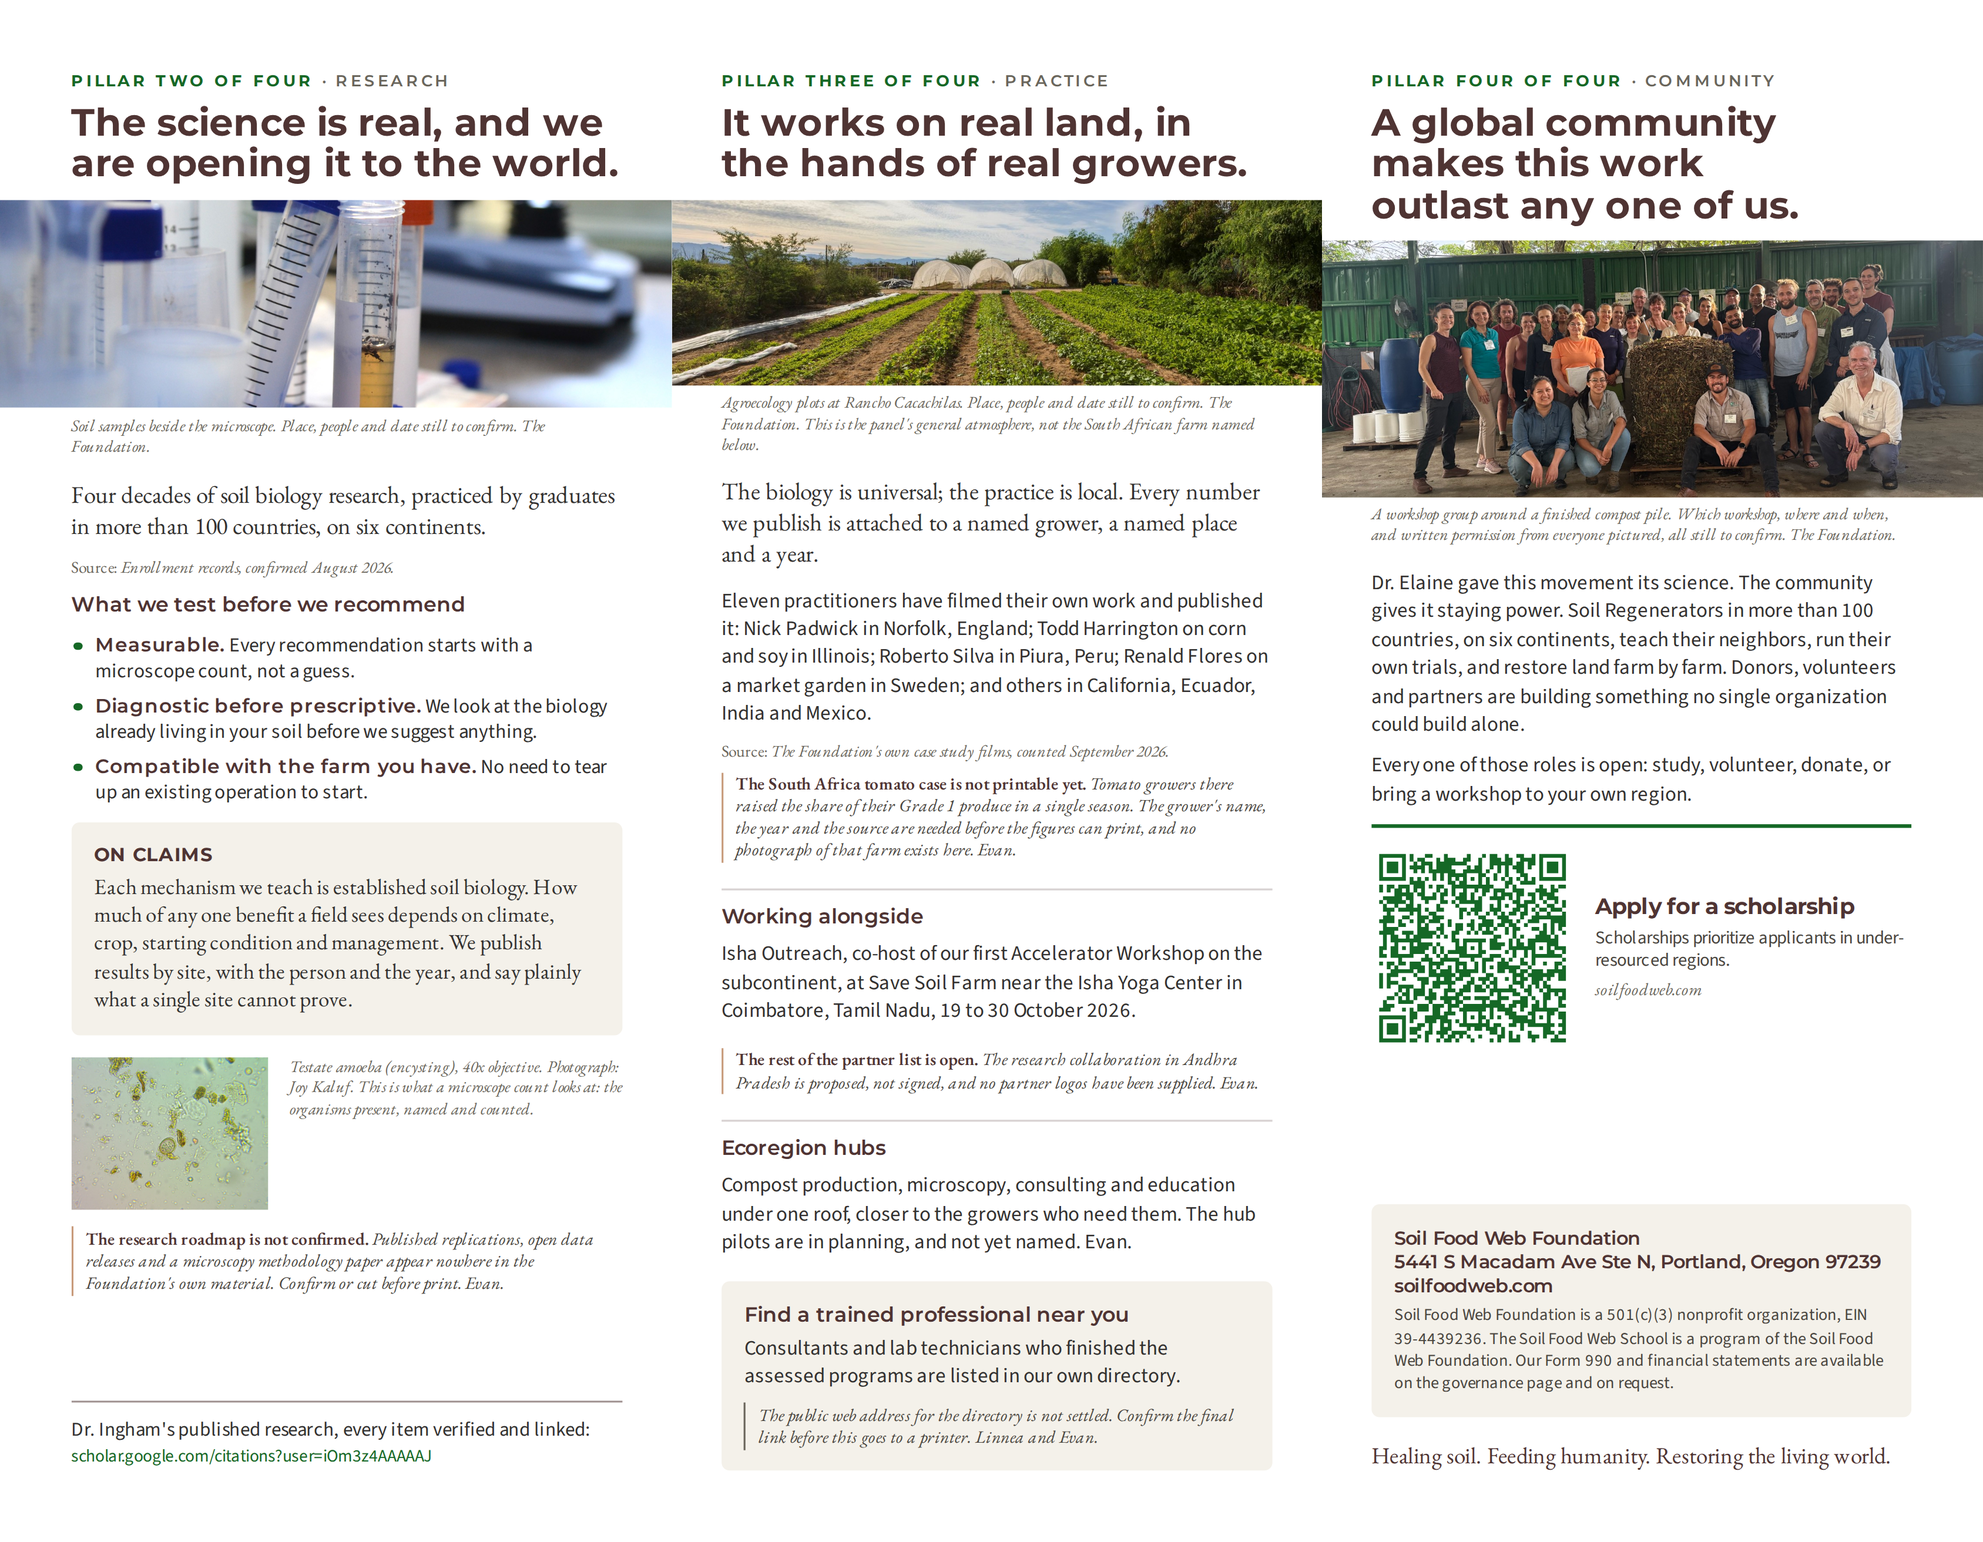
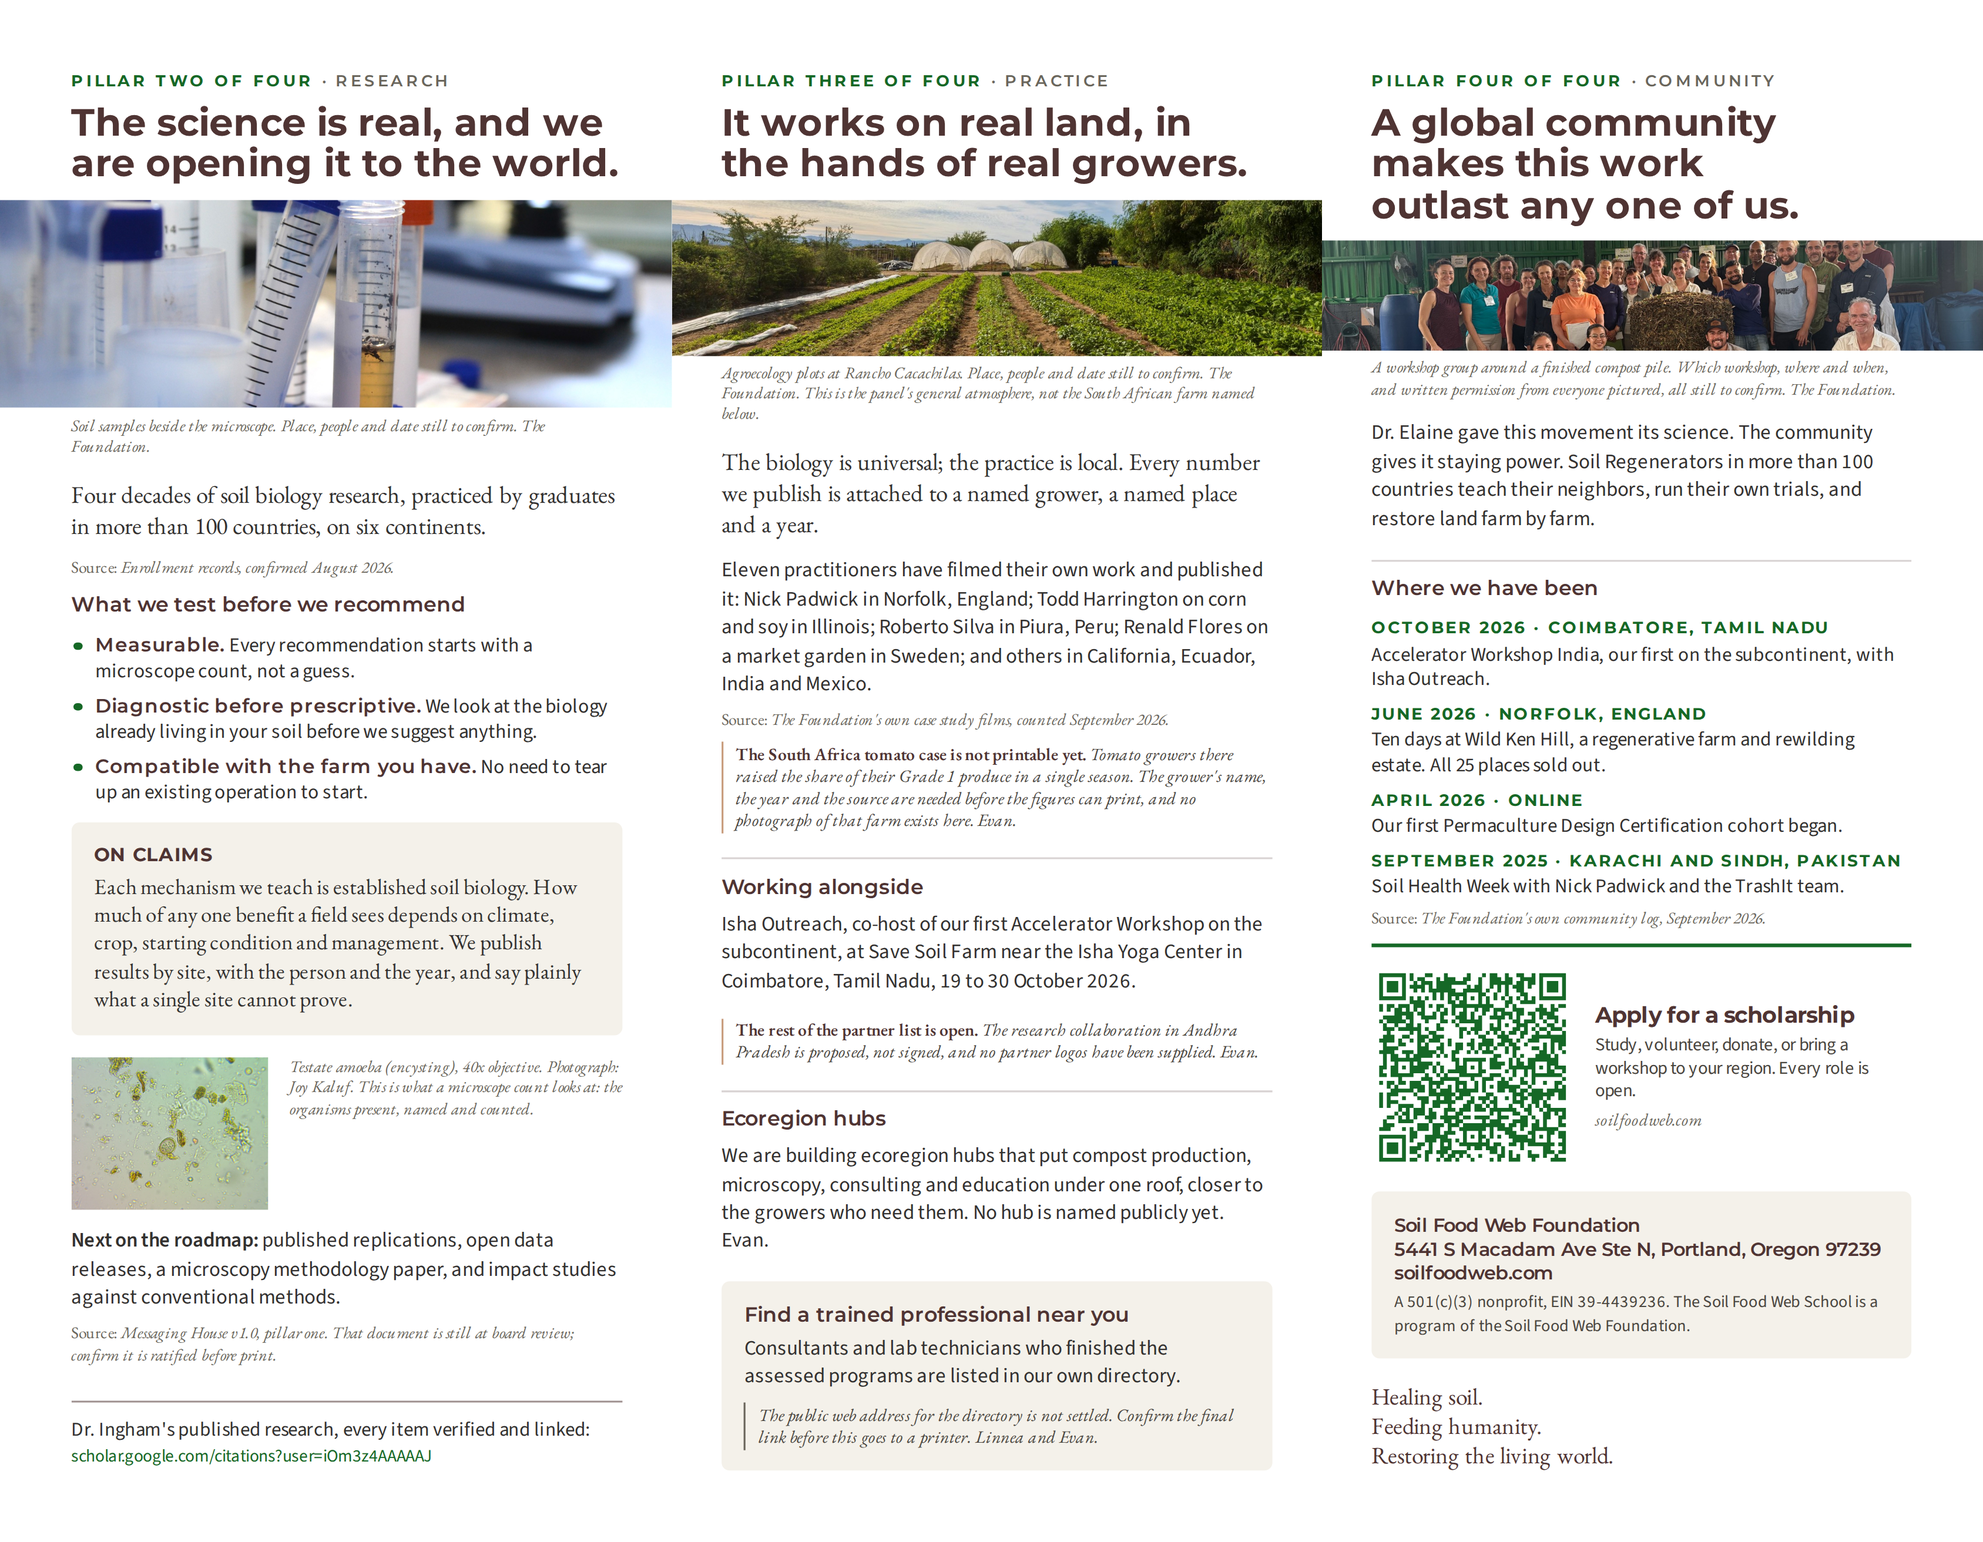
Resolve the publication count and the research roadmap; rework panel 6
The publication count is answered from the repository's own data rather
than from any of the three prose figures. content/research.json holds 137
verified entries in six sections. The four sections that are hers total
89, and every one of those 89 carries "Ingham" in its author string while
none of the other 48 does. By entry type they are 53 journal articles,
10 peer-reviewed technical reports, 9 book chapters, 7 magazine articles,
4 conference proceedings, 3 technical reports, 2 books and the USDA Soil
Biology Primer. about-elaine.html and about.html already print exactly
that and are correct.

The copy deck's "82 verified links" is a link count: 87 entries carry a
URL, five of those links are recorded as never re-verified, 87 minus 5 is
82. Its "77 journal papers" does not exist in the data, and its "43 other
publications" are by other authors. Panel 2 now prints 89 with a source
line in place of the placeholder.

The research roadmap is confirmed by the Foundation's own Messaging House
v1.0, pillar one, which names published replications, open data releases,
a microscopy methodology paper and impact studies. Panel 4 prints it with
a source line and a note that the document is still at board review. The
same document makes the ecoregion hubs sentence approved present-tense
language, so panel 5 is no longer hedged.

Panel 6 on Linnea's notes: the tagline breaks to three lines as it does on
the cover; the legal block loses the Form 990 sentence, which only pointed
[…]

Changed region(s): [[0.3111, 0.125, 1.0, 0.8122], [0.6844, 0.781, 0.9644, 0.9684], [0.0311, 0.781, 0.3111, 0.8747]]

diff --git a/Trifold Design/build/inside.html b/Trifold Design/build/inside.html
@@ -55,10 +55,11 @@
           microscope count looks at: the organisms present, named and counted.</figcaption>
       </figure>
 
-      <p class="awaiting" style="margin-top:0.1in"><b>The research roadmap is not
-        confirmed.</b> Published replications, open data releases and a
-        microscopy methodology paper appear nowhere in the Foundation's own
-        material. Confirm or cut before print. Evan.</p>
+      <p style="margin-top:0.1in"><b>Next on the roadmap:</b> published
+        replications, open data releases, a microscopy methodology paper, and
+        impact studies against conventional methods.</p>
+      <p class="source" style="margin-top:0">Messaging House v1.0, pillar one.
+        That document is still at board review; confirm it is ratified before print.</p>
 
       <div class="spacer"></div>
 
@@ -75,7 +76,7 @@
       <h2>It works on real land, in the hands of real growers.</h2>
 
       <figure class="figure figure--full">
-        <img src="/img/erc-rancho-cacachilas-agro.jpg" alt="" style="height:1.05in;object-position:50% 58%">
+        <img src="/img/erc-rancho-cacachilas-agro.jpg" alt="" style="height:0.88in;object-position:50% 58%">
         <figcaption class="caption">Agroecology plots at Rancho Cacachilas.
           Place, people and date still to confirm. The Foundation. This is the
           panel's general atmosphere, not the South African farm named below.</figcaption>
@@ -112,9 +113,9 @@
       <hr class="hr">
 
       <h3>Ecoregion hubs</h3>
-      <p style="margin-top:0.03in">Compost production, microscopy, consulting and
-        education under one roof, closer to the growers who need them. The hub
-        pilots are in planning, and not yet named. Evan.</p>
+      <p style="margin-top:0.03in">We are building ecoregion hubs that put
+        compost production, microscopy, consulting and education under one roof,
+        closer to the growers who need them. No hub is named publicly yet. Evan.</p>
 
       <div class="spacer"></div>
 
@@ -136,44 +137,63 @@
       <h2>A global community makes this work outlast any one of us.</h2>
 
       <figure class="figure figure--full">
-        <img src="/img/uploads/MAR Group Photo 2.jpg" alt="" style="height:1.45in;object-position:50% 52%">
+        <img src="/img/uploads/MAR Group Photo 2.jpg" alt="" style="height:0.62in;object-position:50% 44%">
         <figcaption class="caption">A workshop group around a finished compost
           pile. Which workshop, where and when, and written permission from
           everyone pictured, all still to confirm. The Foundation.</figcaption>
       </figure>
 
-      <p style="margin-top:0.13in">Dr. Elaine gave this movement its science.
+      <p style="margin-top:0.11in">Dr. Elaine gave this movement its science.
         The community gives it staying power. Soil Regenerators in more than 100
-        countries, on six continents, teach their neighbors, run their own
-        trials, and restore land farm by farm. Donors, volunteers and partners
-        are building something no single organization could build alone.</p>
+        countries teach their neighbors, run their own trials, and restore land
+        farm by farm.</p>
 
-      <p>Every one of those roles is open: study, volunteer, donate, or bring a
-        workshop to your own region.</p>
+      <hr class="hr">
 
-      <div class="qr qr--green" style="margin-top:0.02in">
+      <h3>Where we have been</h3>
+      <div class="log" style="margin-top:0.06in">
+        <div>
+          <div class="d">October 2026 &middot; Coimbatore, Tamil Nadu</div>
+          <p>Accelerator Workshop India, our first on the subcontinent, with
+            Isha Outreach.</p>
+        </div>
+        <div>
+          <div class="d">June 2026 &middot; Norfolk, England</div>
+          <p>Ten days at Wild Ken Hill, a regenerative farm and rewilding
+            estate. All 25 places sold out.</p>
+        </div>
+        <div>
+          <div class="d">April 2026 &middot; Online</div>
+          <p>Our first Permaculture Design Certification cohort began.</p>
+        </div>
+        <div>
+          <div class="d">September 2025 &middot; Karachi and Sindh, Pakistan</div>
+          <p>Soil Health Week with Nick Padwick and the TrashIt team.</p>
+        </div>
+      </div>
+      <p class="source" style="margin-top:0.06in">The Foundation's own community
+        log, September 2026.</p>
+
+      <div class="spacer"></div>
+
+      <div class="qr qr--green">
         <img src="qr/scholarship.svg" alt="">
         <div>
           <div class="t">Apply for a scholarship</div>
-          <div class="d">Scholarships prioritize applicants in under-resourced
-            regions.</div>
+          <div class="d">Study, volunteer, donate, or bring a workshop to your
+            region. Every role is open.</div>
           <div class="h">soilfoodweb.com</div>
         </div>
       </div>
 
-      <div class="spacer"></div>
-
-      <div class="card legal">
+      <div class="card legal" style="margin-top:0.13in">
         <p class="addr">Soil Food Web Foundation<br>5441 S Macadam Ave Ste N,
           Portland, Oregon 97239<br>soilfoodweb.com</p>
-        <p>Soil Food Web Foundation is a 501(c)(3) nonprofit organization,
-          EIN 39-4439236. The Soil Food Web School is a program of the Soil Food
-          Web Foundation. Our Form 990 and financial statements are available on
-          the governance page and on request.</p>
+        <p>A 501(c)(3) nonprofit, EIN 39-4439236. The Soil Food Web School is a
+          program of the Soil Food Web Foundation.</p>
       </div>
 
-      <p class="tagline" style="margin-top:0.14in;font-size:9.4pt">Healing soil.
-        Feeding humanity. Restoring the living world.</p>
+      <p class="tagline" style="margin-top:0.13in;font-size:9.6pt">Healing soil.<br>Feeding humanity.<br>Restoring the living world.</p>
 
     </section>
 

diff --git a/Trifold Design/build/outside.html b/Trifold Design/build/outside.html
@@ -63,7 +63,7 @@
       <h2>It began with one scientist looking closer.</h2>
 
       <figure class="figure figure--full">
-        <img src="/img/Dr Elaine Ingham with Microscope.jpg" alt="" style="height:1.82in;object-position:50% 36%">
+        <img src="/img/Dr Elaine Ingham with Microscope.jpg" alt="" style="height:1.62in;object-position:50% 36%">
         <figcaption class="caption">Dr. Ingham at the microscope. Photograph:
           Soil Food Web School. Dr. Elaine Ingham, 1952 to 2026; birth year
           still to confirm against the obituary.</figcaption>
@@ -81,10 +81,12 @@
         in more than 100 countries carry the same close attention into their
         own soil.</p>
 
-      <p class="awaiting"><b>Her published record, still to settle.</b> This
-        Foundation's own page for Dr. Ingham says 89 publications, 53 of them
-        journal articles. The copy deck says 82 verified links and separately
-        lists 77 journal papers. One figure is needed before print. Linnea and Evan.</p>
+      <p><b>Her published record.</b> 89 publications across four decades: 53
+        journal articles, 9 book chapters, 13 technical reports, and 14 others
+        including the Soil Biology Primer she wrote for the Natural Resources
+        Conservation Service.</p>
+      <p class="source" style="margin-top:0">The Foundation's publications list,
+        every entry verified September 2026.</p>
 
       <div class="card card--green">
         <p class="pull"><b>Why this matters for climate</b>Plants pull carbon

diff --git a/Trifold Design/build/trifold.css b/Trifold Design/build/trifold.css
@@ -285,6 +285,16 @@ h3 {
 .qr--edu    { border-top: 2pt solid var(--edu);    padding-top: 0.11in; }
 .qr--green  { border-top: 2pt solid var(--green);  padding-top: 0.11in; }
 
+/* A dated log of what the community actually did. Each line carries its own
+   date and place, which is the site's rule for every dated item. */
+.log { display: grid; gap: 0.06in; }
+.log .d {
+  font-family: var(--display); font-weight: 700; font-size: 6.6pt;
+  letter-spacing: .1em; text-transform: uppercase; color: var(--green);
+  margin-bottom: 0.012in;
+}
+.log p { font-size: 8pt; line-height: 1.3; margin: 0; }
+
 /* The legal block, ratified wording, verbatim. */
 .legal { font-size: 6.8pt; line-height: 1.35; color: var(--ink-soft); }
 .legal .addr { font-family: var(--display); font-weight: 600; font-size: 7.6pt; color: var(--soil); line-height: 1.3; margin-bottom: 0.045in; }

diff --git a/Trifold Design/NOTES.md b/Trifold Design/NOTES.md
@@ -222,3 +222,93 @@ before print if the new site is live by then**, or the code will need a redirect
   for its preset amounts waiting on program costs. Worth deciding whether a print piece should carry one.
 - Panel 1 is the only panel carrying the wordmark. On a folded piece the cover is the outward face, so
   that is correct, but confirm it against how the piece will actually be stacked and displayed.
+
+---
+
+## Pass 2, 15 September 2026
+
+Three open items closed, one reopened as a smaller question, and panel 6 reworked on Linnea's notes.
+
+### Open item 1 is answered. Dr. Ingham published 89 things.
+
+Counted from this repository's own rebuilt publications list, `content/research.json`,
+which holds 137 entries in six sections. Four of those sections are hers:
+
+| Section | Entries |
+| :-- | --: |
+| Papers Published by Dr. Ingham | 71 |
+| Book Chapters | 6 |
+| Peer-Reviewed Technical Reports | 10 |
+| Technical Reports | 2 |
+| **Authored or co-authored by Dr. Ingham** | **89** |
+| Other Relevant Publications (other authors) | 43 |
+| Internet Articles (other authors) | 5 |
+| Total entries on the publications page | 137 |
+
+Every one of those 89 carries "Ingham" in its author string. Not one of the other 48 does.
+By the `type` field on each entry the 89 are: 53 journal articles, 10 peer-reviewed technical
+reports, 9 book chapters, 7 magazine articles, 4 conference proceedings, 3 technical reports,
+2 books and 1 USDA publication, the last being the Soil Biology Primer.
+
+That is exactly what `about-elaine.html` and `about.html` already print: "89 publications:
+53 journal articles, 9 book chapters, 13 technical reports, and 14 others." Both live pages
+are right, and both are derivable from the data line by line. Panel 2 now prints the figure
+with a source line instead of a placeholder.
+
+**Where the other two numbers came from, so nobody reintroduces them.**
+
+- **"82 verified links" is a link count, not a publication count.** 87 of the 137 entries carry
+  a URL. Five of those are the internet-article links that `content/research.json` records as
+  never re-verified. 87 minus 5 is 82. The copy deck turned a count of working links into a
+  count of publications.
+- **"77 journal papers, 6 book chapters, 10 reports, 43 other" is the section grouping, and it
+  is wrong twice.** The Papers section holds 71 entries, not 77, and only 53 of them are journal
+  articles; the rest are magazine pieces, conference proceedings, books and the Primer. And the
+  43 "Other Relevant Publications" are by other authors entirely. Counting another scientist's
+  work as hers is the substantive error, not the arithmetic.
+- The old site's "Seventy-six papers", still flagged in `OPEN-ITEMS.md` against
+  `about-team.html`, is wrong too, and for the same reason: it counts a section, not an authorship.
+
+**If the brochure ever needs one number it is 89 publications, not 77 peer-reviewed journal
+papers.** There is no 77 in the data. The nearest peer-reviewed figure is 63: 53 journal
+articles plus 10 peer-reviewed technical reports.
+
+`OPEN-ITEMS.md` and `docs/copy-deck-v2.md` still carry the wrong figures. Correcting them is a
+separate edit outside this folder and has not been made.
+
+### Open item 7 is answered, with a caveat. The research roadmap is real.
+
+`SFWF_Messaging_House.docx` (Drive, v1.0, August 2026), pillar one, lists under "proof to build":
+published replications, open data releases, a microscopy methodology paper, and impact studies
+against conventional methods, all traced to the Strategic Priorities 2027 to 2029. Its "say
+today" line is the brochure draft's wording almost verbatim. Panel 4 now prints the roadmap with
+a source line. **The caveat:** that document is marked "For Board and Leadership Review" and
+section 8 asks for ratification. Confirm it is ratified before print.
+
+The same document also settles panel 5: "we're building ecoregion hubs that put compost,
+microscopy, consulting, and education under one roof" is approved present-tense language, so the
+hubs sentence is no longer hedged to "in planning". No hub is named publicly yet, which the
+panel still says.
+
+Worth knowing: all four panel headlines are the Messaging House's four pillar claims word for
+word, and the cover copy is its 100-word master narrative. The trifold was already on the house
+without either of us checking.
+
+### Panel 6, reworked on Linnea's notes
+
+1. **The tagline is three lines, not one.** "Healing soil. / Feeding humanity. / Restoring the
+   living world." Panel 1 already set it this way; panel 6 now matches.
+2. **The legal block is trimmed.** The Form 990 and financial statements sentence is gone: it
+   existed only to point at the governance page, and the website carries that better than a
+   printed panel can. What remains is what a printed piece is actually useful for, which is the
+   registered address, the 501(c)(3) status, the EIN, and the School's descriptor line, which the
+   Brand Guide Addendum requires in footers and formal documents.
+3. **The panel carries a dated log of real work.** Four entries, each with its own date and
+   place, from `community.html`: the India workshop, Wild Ken Hill, the first Permaculture Design
+   Certification cohort, and Soil Health Week in Pakistan. Source line beneath. Nothing invented;
+   everything already published on the community page.
+
+The group photograph shrank to a 0.62 in band to make room. It reads, but it is the thing to
+give height back to when the consent question on it is settled, or when a better community
+photograph arrives. The consent flag on that photograph is unchanged and still the most
+important thing on this list.
